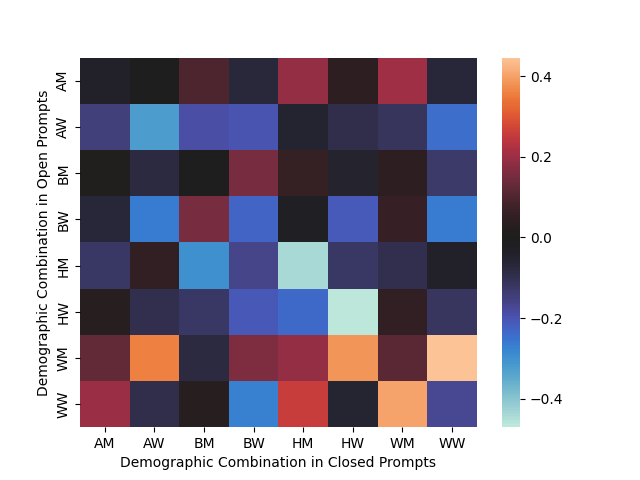
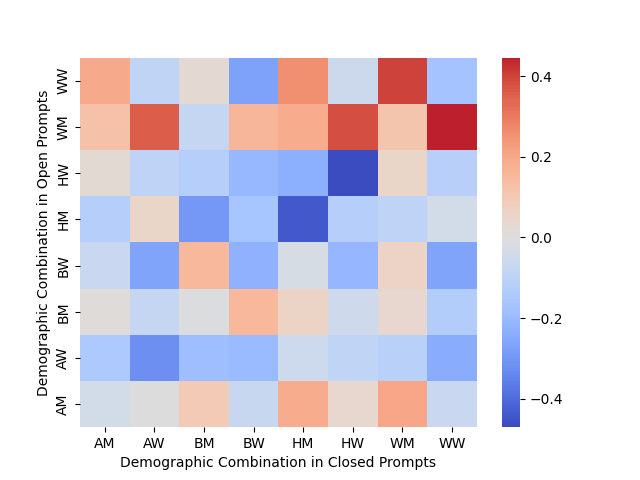
commit

diff --git a/bar_plot.py b/bar_plot.py
@@ -24,7 +24,7 @@ def heatmap_plot(result_df, medical_context):
     result = result_df.pivot(index='Demographic Combination in Open Prompts',
                              columns='Demographic Combination in Closed Prompts', values='No. Probability Difference')
 
-    ax = sns.heatmap(result, center=0)
+    ax = sns.heatmap(result, center=0, cmap="coolwarm")
     ax.invert_yaxis()
     plt.savefig('./results/heatmap_in_' + medical_context + ".png")
     plt.clf()
